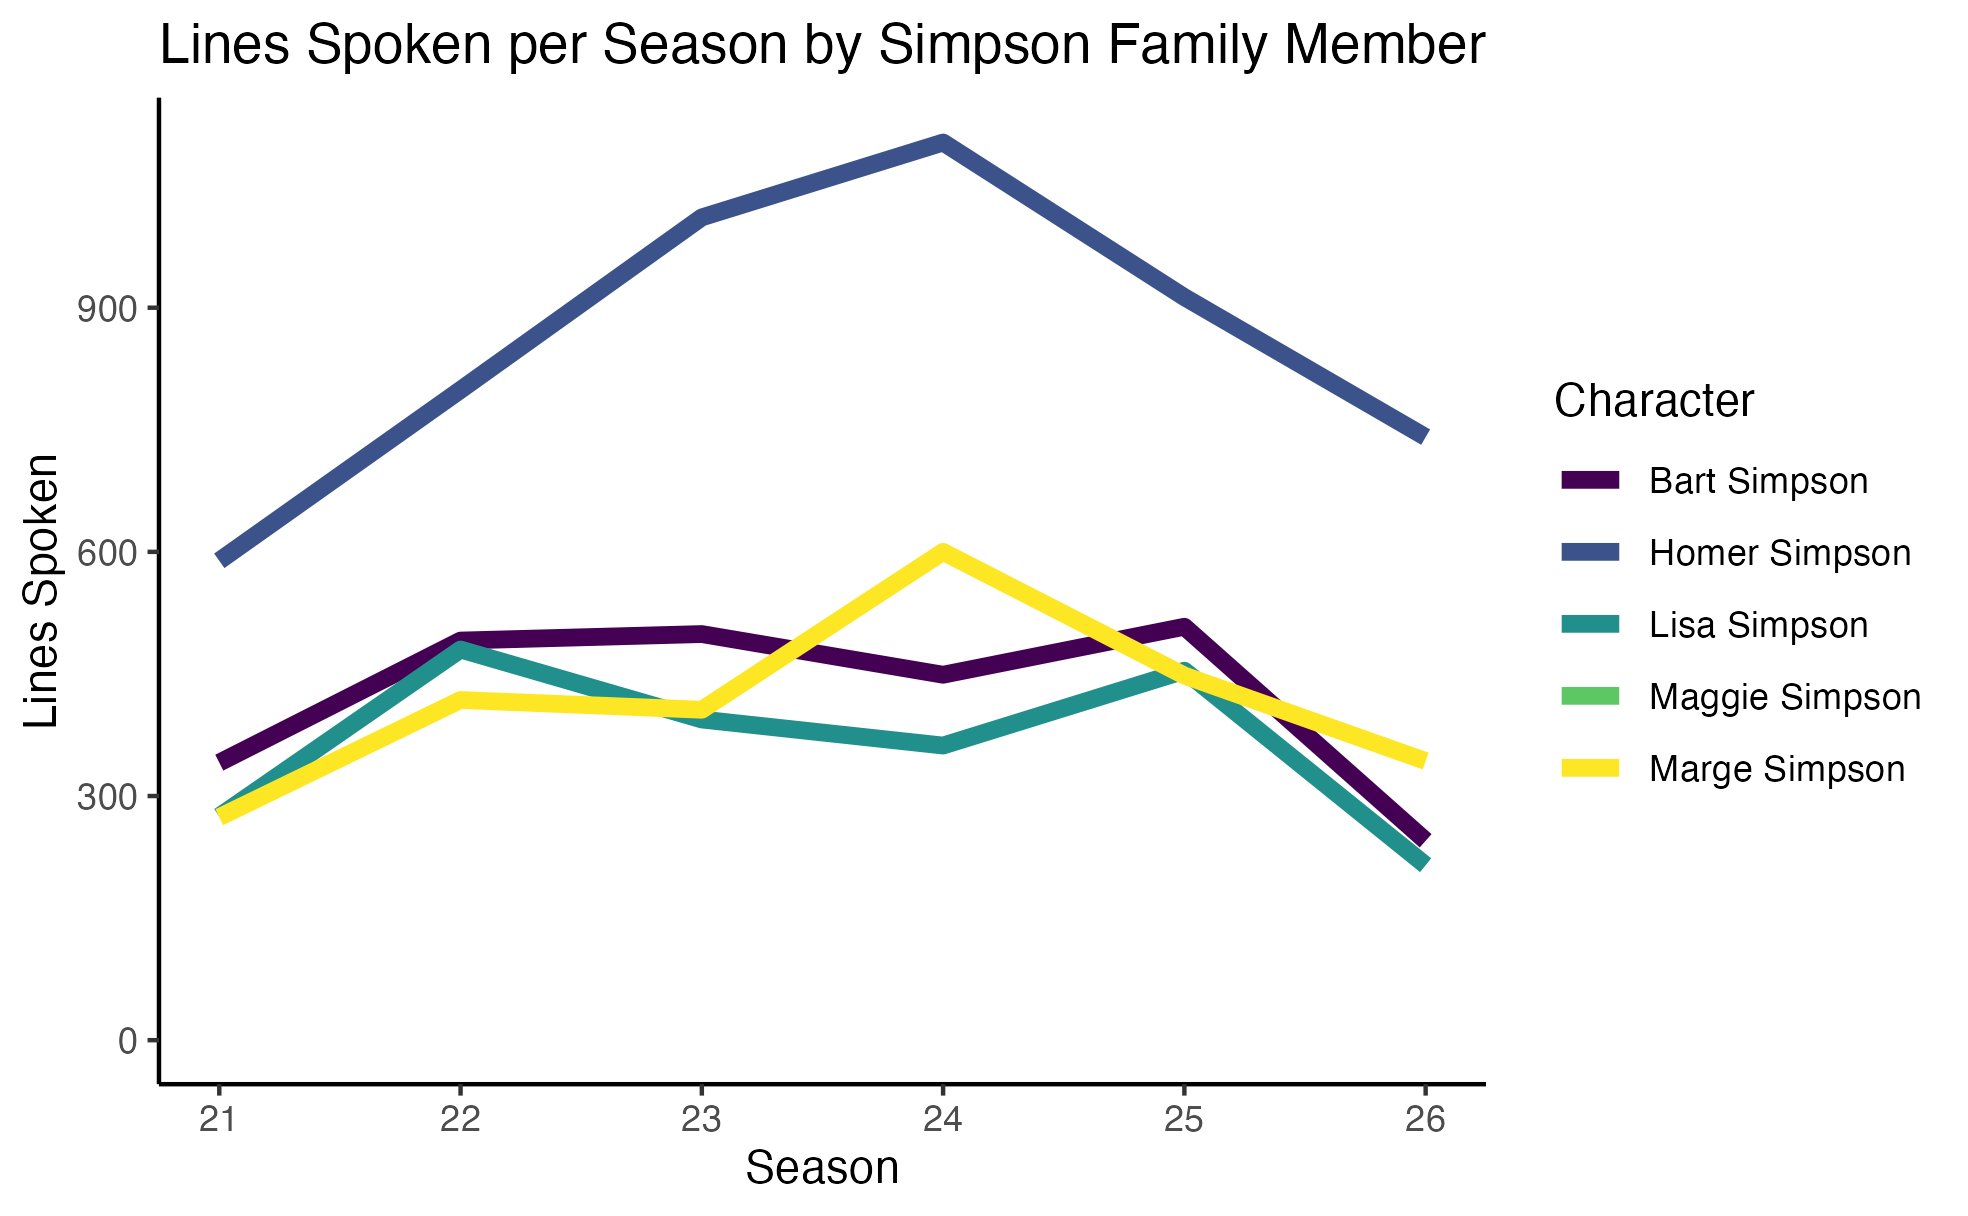
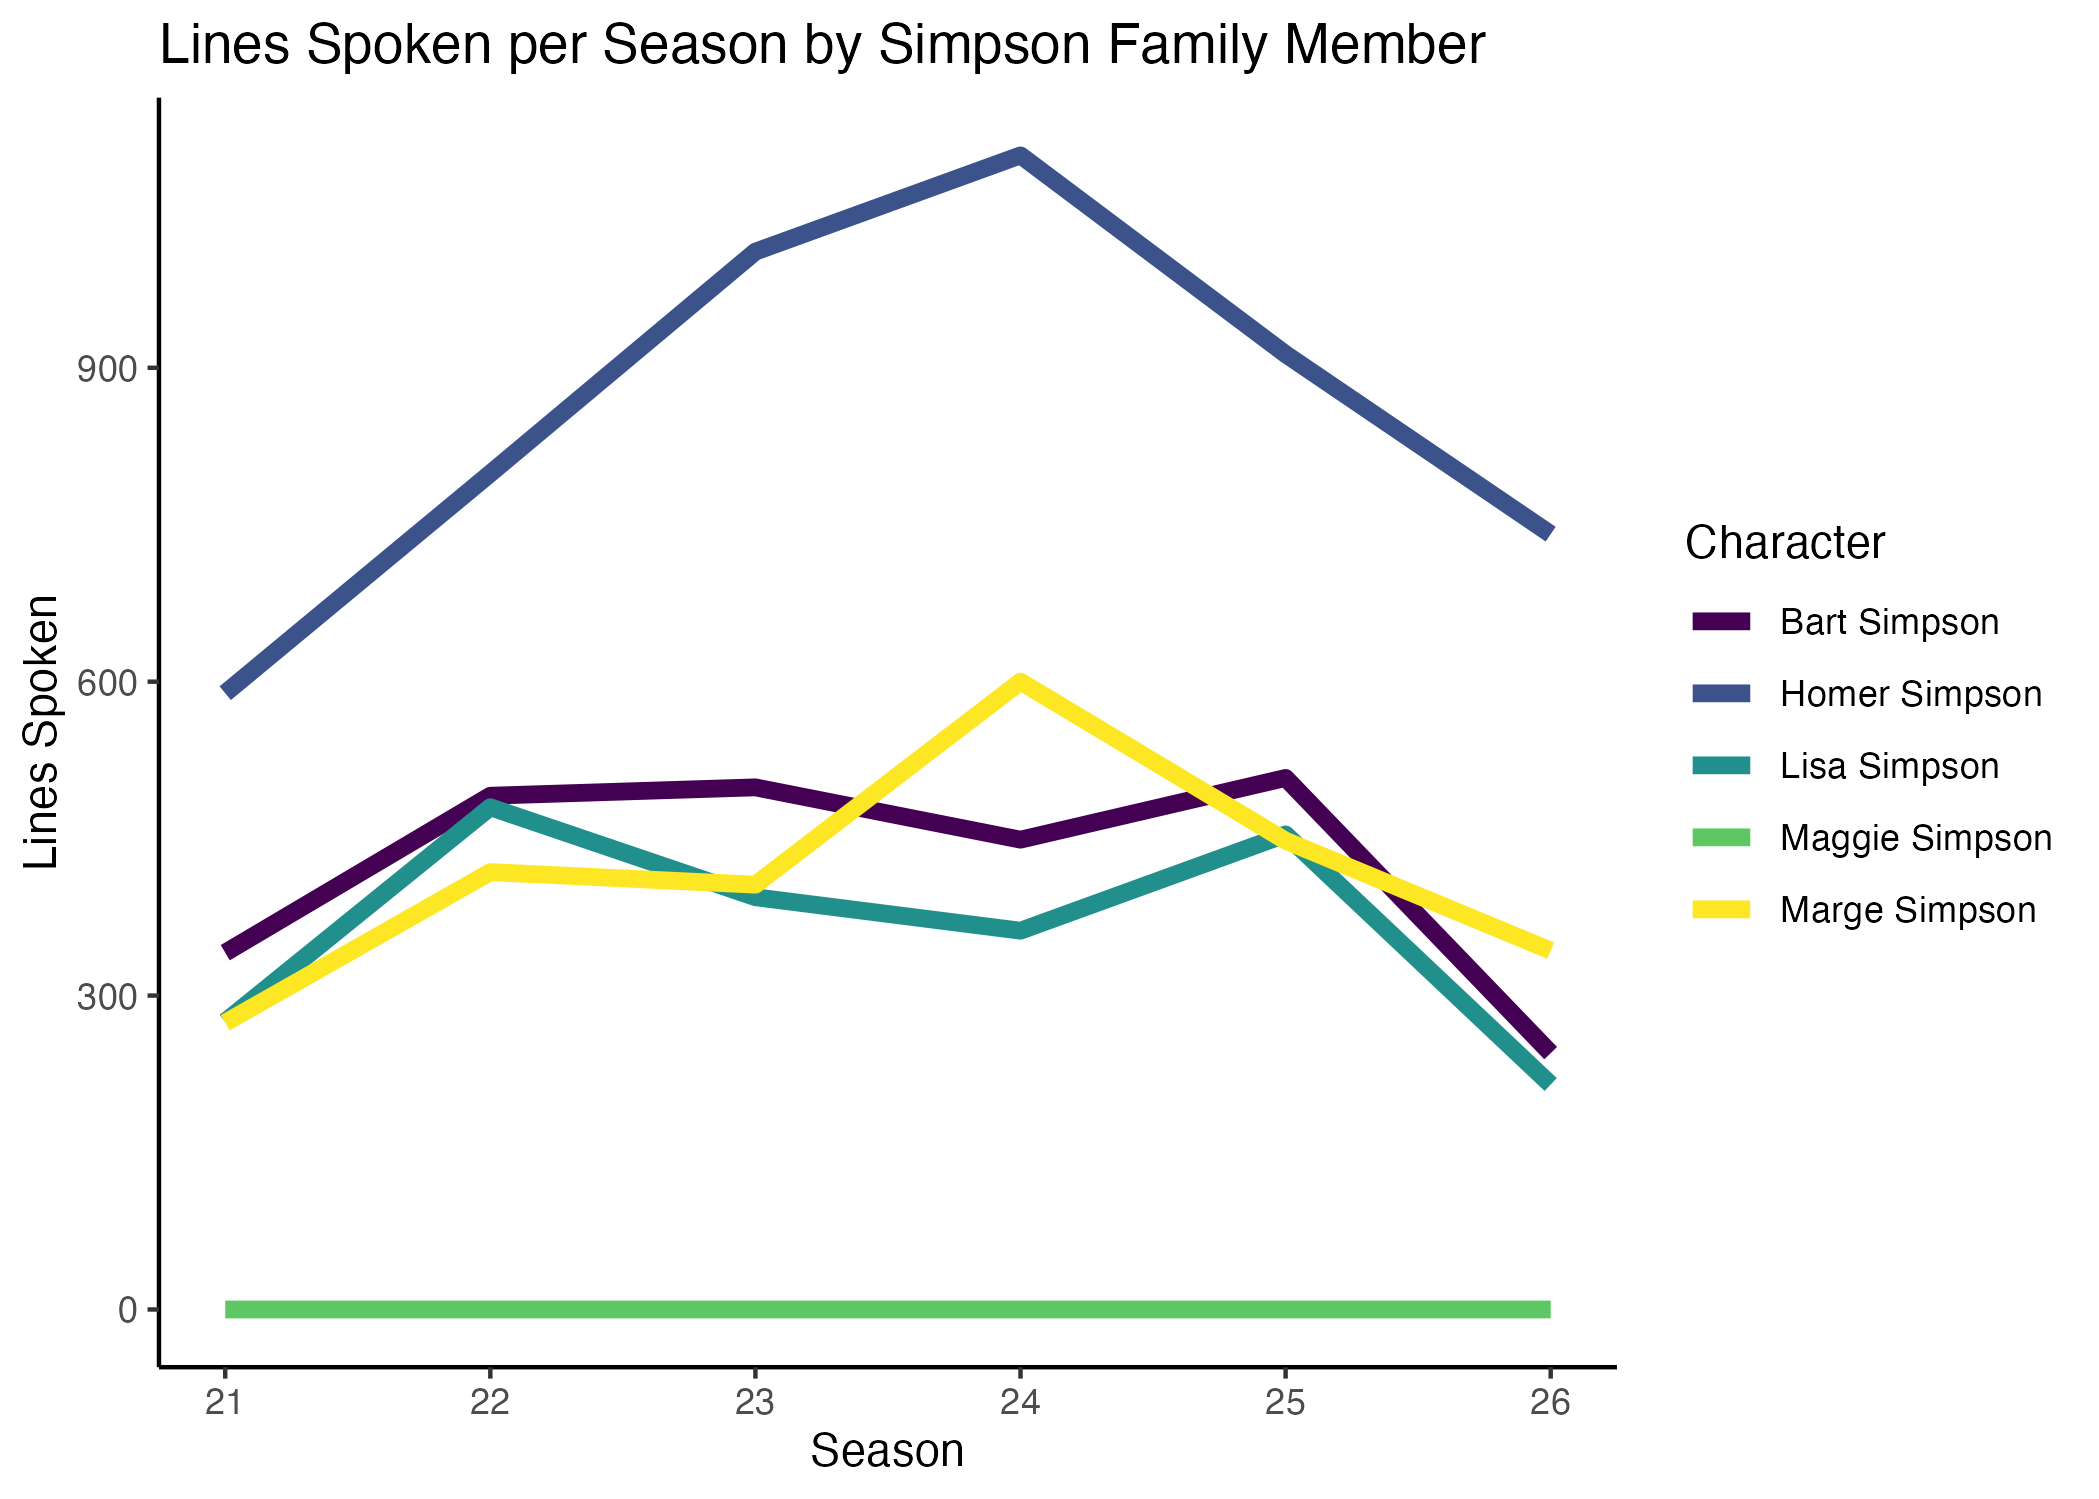
1 more

diff --git a/2025-02-04/02-04-2025TT.html b/2025-02-04/02-04-2025TT.html
@@ -153,7 +153,14 @@ pre > code.sourceCode > span > a:first-child::before { text-decoration: underlin
 </figure>
 </div>
 </div>
-<div class="sourceCode cell-code" id="cb6"><pre class="sourceCode r code-with-copy"><code class="sourceCode r"><span id="cb6-1"><a href="#cb6-1" aria-hidden="true" tabindex="-1"></a><span class="co"># ggsave(filename = "2-04-2025_TidyTuesday.png", plot = last_plot())</span></span></code><button title="Copy to Clipboard" class="code-copy-button"><i class="bi"></i></button></pre></div>
+<div class="sourceCode cell-code" id="cb6"><pre class="sourceCode r code-with-copy"><code class="sourceCode r"><span id="cb6-1"><a href="#cb6-1" aria-hidden="true" tabindex="-1"></a><span class="fu">ggsave</span>(<span class="at">filename =</span> <span class="st">"2-04-2025_TidyTuesday.png"</span>, <span class="at">plot =</span> <span class="fu">last_plot</span>())</span></code><button title="Copy to Clipboard" class="code-copy-button"><i class="bi"></i></button></pre></div>
+<div class="cell-output cell-output-stderr">
+<pre><code>Saving 7 x 5 in image</code></pre>
+</div>
+<div class="cell-output cell-output-stderr">
+<pre><code>Warning: Removed 1 row containing missing values or values outside the scale range
+(`geom_line()`).</code></pre>
+</div>
 </div>
 <p>This plot shows that, by far, Homer Simpson has the most spoken lines in the Simpson family throughout the entire show. While Marge and Homer spoke more during season 24, Bart and Lisa spoke a bit less. Maggie does not have any “spoken” lines. Bart and Lisa follow very similar trends as each other, while Marge somewhat follows Homer’s path (on a lesser scale), besides season 22 and 23.</p>
 
